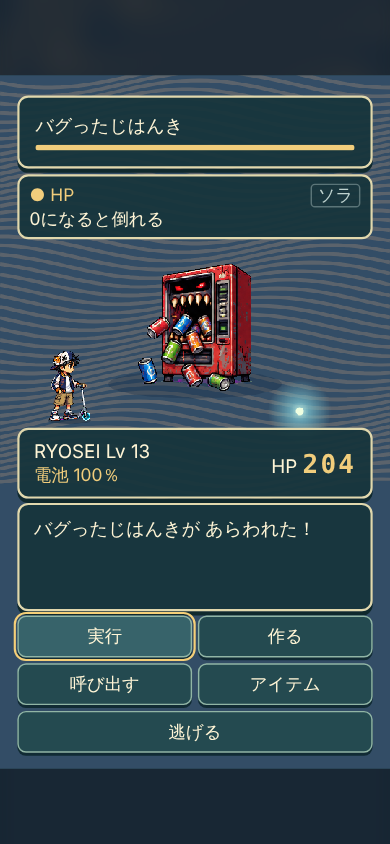
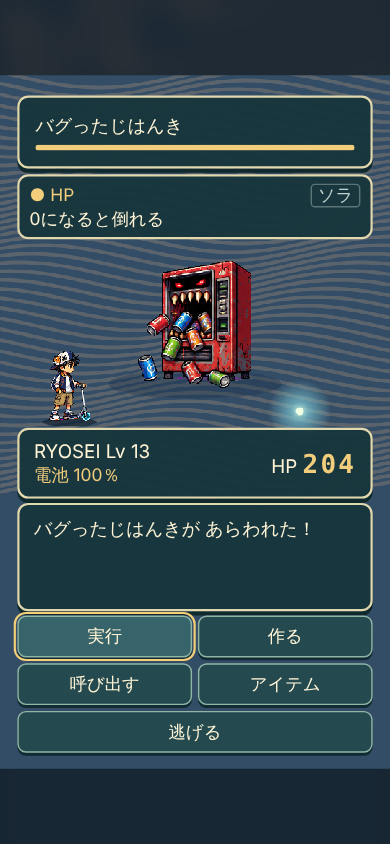
R221: 主人公の影を車輪より広く濃くし、見えるようにした
Claude-Session: https://claude.ai/code/session_01H9GTdJR34T2spxvUbAksXK

Changed region(s): [[0.0, 0.0924, 1.0, 0.5853], [0.0, 0.0616, 0.7385, 0.3697], [0.8, 0.3697, 1.0, 0.5853]]

diff --git a/v5/index.html b/v5/index.html
@@ -390,8 +390,8 @@ function showWordCard(){wordCurrent=wordQueue.shift()||null;const el=$('word-car
 // R137: the battle hero's wheels end 8px (6px while ちらつき shakes it) above the RYOSEI/HP card (top 488px), so the feet never sit on its frame line.
 const SUMMON_Y=470,SUMMON_RING_Y=462,SUMMON_RING_RY=20;
 const HERO_BATTLE_Y=480;
-// R221: the enemy had a shadow under it and the hero had none, so the hero seemed to float over the RYOSEI/HP card. A flat shadow (ends at 483, above the card at 488) now sits under the wheels.
-const HERO_SHADOW='#182d4488';
+// R221: the enemy had a shadow under it and the hero had none, so the hero seemed to float over the RYOSEI/HP card. A flat shadow, wider than the wheels (ends at 486, above the card at 488), now sits under the wheels.
+const HERO_SHADOW='#0e1c2caa';
 // R167: the name plate sits under the word card, so a tall summon (ナオスライム's antenna) could poke into it. With a card up, the art is shrunk just enough to start under the plate (its top row comes from scanAlpha); without one it keeps its full size.
 function summonFitH(index,nameY){const f=frameFor('summons',index);if(nameY<=185||!f||f.top==null)return 300;const s0=Math.min(285/f.w,300/f.h),visible=f.h*(1-f.top)*s0,room=SUMMON_Y-4-(nameY+12+6);return visible<=room?300:f.h*s0*Math.max(.6,room/visible);}
 function summonEaseH(c,target){const last=c.fitAt??gameTime;c.fitAt=gameTime;c.fitH=c.fitH==null?target:c.fitH+(target-c.fitH)*(1-Math.exp(-Math.max(0,gameTime-last)/120));return c.fitH;}
@@ -778,7 +778,7 @@ function drawRoomScene(){const line=g.screen==='prologue'&&dialogue?dialogue.ind
 let enemyEase=null;
 function enemyPlace(b,ch){const wc=$('word-card'),cb=wc&&!wc.hidden&&wc.offsetHeight?wc.offsetTop+wc.offsetHeight+8:0;let bot=385,h=ch;if(cb>385-ch-6){const lo=440,room=lo-cb;h=Math.max(120,Math.min(ch,room));bot=Math.min(lo,cb+(room+h)/2);}
  if(!enemyEase||enemyEase.b!==b)enemyEase={b,bot,h,t:gameTime};const k=1-Math.exp(-Math.max(0,gameTime-enemyEase.t)/120);enemyEase.bot+=(bot-enemyEase.bot)*k;enemyEase.h+=(h-enemyEase.h)*k;enemyEase.t=gameTime;return enemyEase;}
-function drawBattle(){const b=g.battle,def=GAME_DATA.enemies[b.type];rect(0,0,W,H,def.color[0]);for(let y=0;y<580;y+=12){ctx.strokeStyle=def.color[1];ctx.globalAlpha=.3;ctx.lineWidth=5;ctx.beginPath();for(let x=0;x<=W;x+=12){const yy=y+Math.sin(x/75+gameTime/650+y/60)*17; x?ctx.lineTo(x,yy):ctx.moveTo(x,yy);}ctx.stroke();}ctx.globalAlpha=1;const calm=b.wonAt!=null?Math.min(1,(gameTime-b.wonAt)/700):0;const ep=enemyPlace(b,def.boss?260:190),es=ep.h/(def.boss?260:190);ellipse(270,ep.bot-5,120*es,20*es,'#182d4455');ctx.globalAlpha=1-.6*calm;sprite(def.art||'enemies',def.animCols?Math.floor((calm?b.wonAt:gameTime)/200)%def.animCols:def.frame,270,ep.bot+Math.sin(gameTime/500)*6*(1-calm)+14*calm,(def.boss?275:190)*es,ep.h,def.name);ctx.globalAlpha=1;ellipse(96,HERO_BATTLE_Y-2,30,5,HERO_SHADOW);sprite('ryosei',Math.floor(gameTime/180)%4,96+(g.status?Math.sin(gameTime/35)*4:0),HERO_BATTLE_Y+(g.status?Math.cos(gameTime/47)*2:0),86,108);if(g.status)label(word('hyoujibug','ちらつき'),270,466,'#f1cd7c',24);if(b.loopHit&&gameTime<b.loopHit.until)label(String(b.loopHit.n),270,260,'#fff5d6',48);drawSora(415,465,22);$('enemy-name').textContent=def.name;$('enemy-meter').style.width=(def.fakeHp&&!b.hallReveal?100:Math.max(0,b.enemy.displayHp/b.enemy.maxHp*100))+'%';$('hp-number').textContent=String(Math.max(0,g.hero.displayHp)).padStart(3,'0');$('battle-lv').textContent='Lv '+g.level;$('battle-battery').textContent=menuLabel('電池 ','でんち ')+g.battery+'％';syncCommands();$('screen-battle').classList.toggle('casting',!!b.cast);
+function drawBattle(){const b=g.battle,def=GAME_DATA.enemies[b.type];rect(0,0,W,H,def.color[0]);for(let y=0;y<580;y+=12){ctx.strokeStyle=def.color[1];ctx.globalAlpha=.3;ctx.lineWidth=5;ctx.beginPath();for(let x=0;x<=W;x+=12){const yy=y+Math.sin(x/75+gameTime/650+y/60)*17; x?ctx.lineTo(x,yy):ctx.moveTo(x,yy);}ctx.stroke();}ctx.globalAlpha=1;const calm=b.wonAt!=null?Math.min(1,(gameTime-b.wonAt)/700):0;const ep=enemyPlace(b,def.boss?260:190),es=ep.h/(def.boss?260:190);ellipse(270,ep.bot-5,120*es,20*es,'#182d4455');ctx.globalAlpha=1-.6*calm;sprite(def.art||'enemies',def.animCols?Math.floor((calm?b.wonAt:gameTime)/200)%def.animCols:def.frame,270,ep.bot+Math.sin(gameTime/500)*6*(1-calm)+14*calm,(def.boss?275:190)*es,ep.h,def.name);ctx.globalAlpha=1;ellipse(96,HERO_BATTLE_Y,38,6,HERO_SHADOW);sprite('ryosei',Math.floor(gameTime/180)%4,96+(g.status?Math.sin(gameTime/35)*4:0),HERO_BATTLE_Y+(g.status?Math.cos(gameTime/47)*2:0),86,108);if(g.status)label(word('hyoujibug','ちらつき'),270,466,'#f1cd7c',24);if(b.loopHit&&gameTime<b.loopHit.until)label(String(b.loopHit.n),270,260,'#fff5d6',48);drawSora(415,465,22);$('enemy-name').textContent=def.name;$('enemy-meter').style.width=(def.fakeHp&&!b.hallReveal?100:Math.max(0,b.enemy.displayHp/b.enemy.maxHp*100))+'%';$('hp-number').textContent=String(Math.max(0,g.hero.displayHp)).padStart(3,'0');$('battle-lv').textContent='Lv '+g.level;$('battle-battery').textContent=menuLabel('電池 ','でんち ')+g.battery+'％';syncCommands();$('screen-battle').classList.toggle('casting',!!b.cast);
  // Summon: rise 0-0.5s, hold 0.5-1.7s (effect at 0.9s), lift away 1.7-2.1s.
  if(b.cast){const t=gameTime-b.cast.start,s=GAME_DATA.summons[b.cast.id];let y=SUMMON_Y,alpha=1;if(t<500){const p=t/500;y=700-(700-SUMMON_Y)*(1-(1-p)*(1-p));}else if(t<1700)y=SUMMON_Y+Math.sin((t-500)/180)*4;else{const p=Math.min(1,(t-1700)/400);y=SUMMON_Y-220*p;alpha=1-p;}rect(0,0,W,H,'#0b1f3cc9');ctx.save();if(t<600)ctx.translate(Math.sin(gameTime/25)*3,Math.cos(gameTime/30)*2);ctx.globalAlpha=alpha;ctx.strokeStyle='#d4efd4';ctx.lineWidth=5;ctx.beginPath();ctx.ellipse(270,SUMMON_RING_Y,155*Math.min(1,t/400),SUMMON_RING_RY,0,0,Math.PI*2);ctx.stroke();drawSora(270,y-150,70);const nameY=summonNameY();sprite('summons',s.frame,270,y,285,summonEaseH(b.cast,summonFitH(s.frame,nameY)),s.name);ctx.font="30px 'Hiragino Sans',system-ui,sans-serif";const nameW=ctx.measureText(s.name).width;rect(270-nameW/2-12,nameY-32,nameW+24,44,'#0b1f3ce0');label(s.name,270,nameY,'#fff3c4',30);if(b.cast.id==='code'&&t<900){for(let i=0;i<3;i++)label(['let fire = 1;','fire += 1;','run(fire);'][i],270,nameY+45+i*30-t*.025,'#8de2ff',24);}if(b.cast.id==='nao'&&t<900){const k=Math.max(0,1-t/900);for(let i=0;i<3;i++)rect(225+i*30+(i%2?14:-14)*k,SUMMON_RING_Y-11+Math.sin(i)*10*k,22,22,'#8de2ff');}
 if(b.cast.id==='paint'&&t<900){const k=Math.max(0,1-t/900);for(let i=0;i<4;i++)rect(222+i*24+(i%2?10:-10)*k,SUMMON_RING_Y-8+Math.sin(i+gameTime/150)*8*k,16,16,['#ff8fa3','#ffd166','#8ee6a7','#8fc9ff'][i]);}

diff --git a/autodev/last_run.md b/autodev/last_run.md
@@ -1,5 +1,5 @@
 - 戦闘で敵の下には影があり、主人公の下には無かったので宙に浮いて見えた
-- 主人公の足元に薄い影を描き、HP の欄の上で終わるようにした
+- 主人公の足元に車輪より広い影を描き、HP の欄の上で終わるようにした
 - 影があり HP の欄にかからないことを確かめるテストを足した
 次: 遊んで一番気になる所を1つ直す（くりかえし）
 時刻: 2026-10-25 04:42
